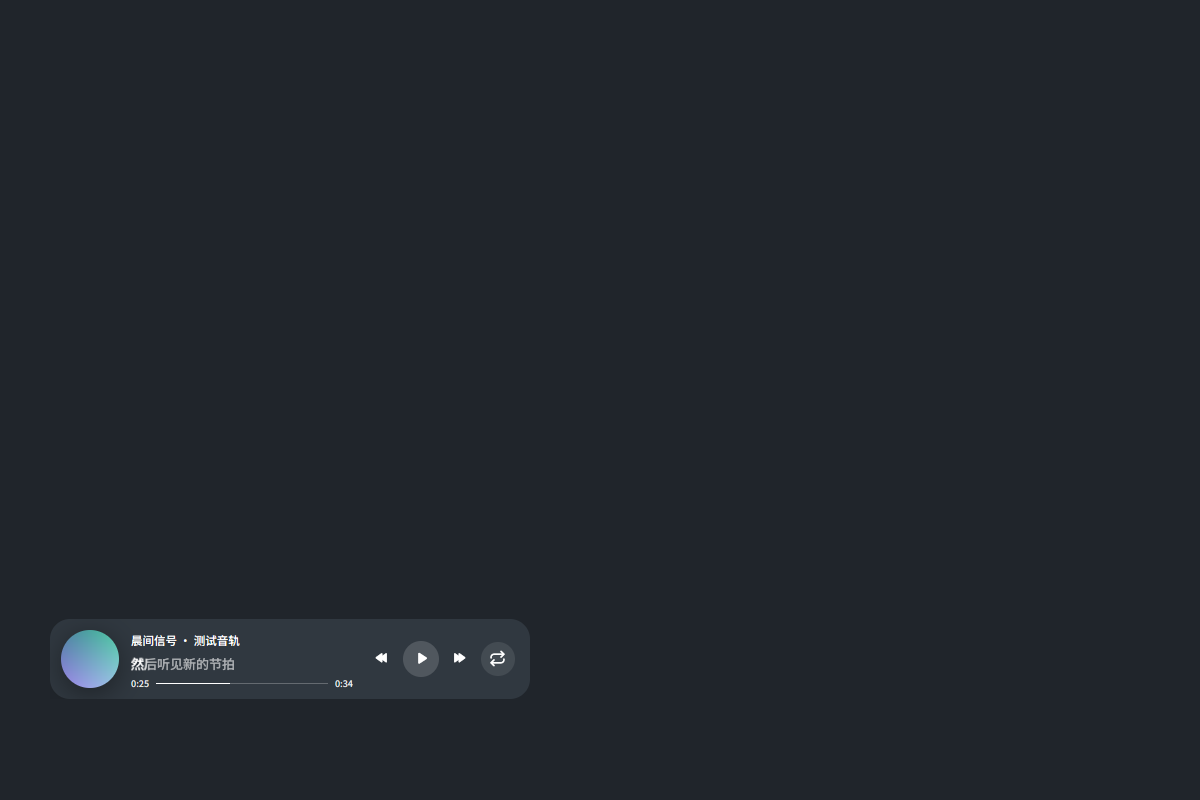
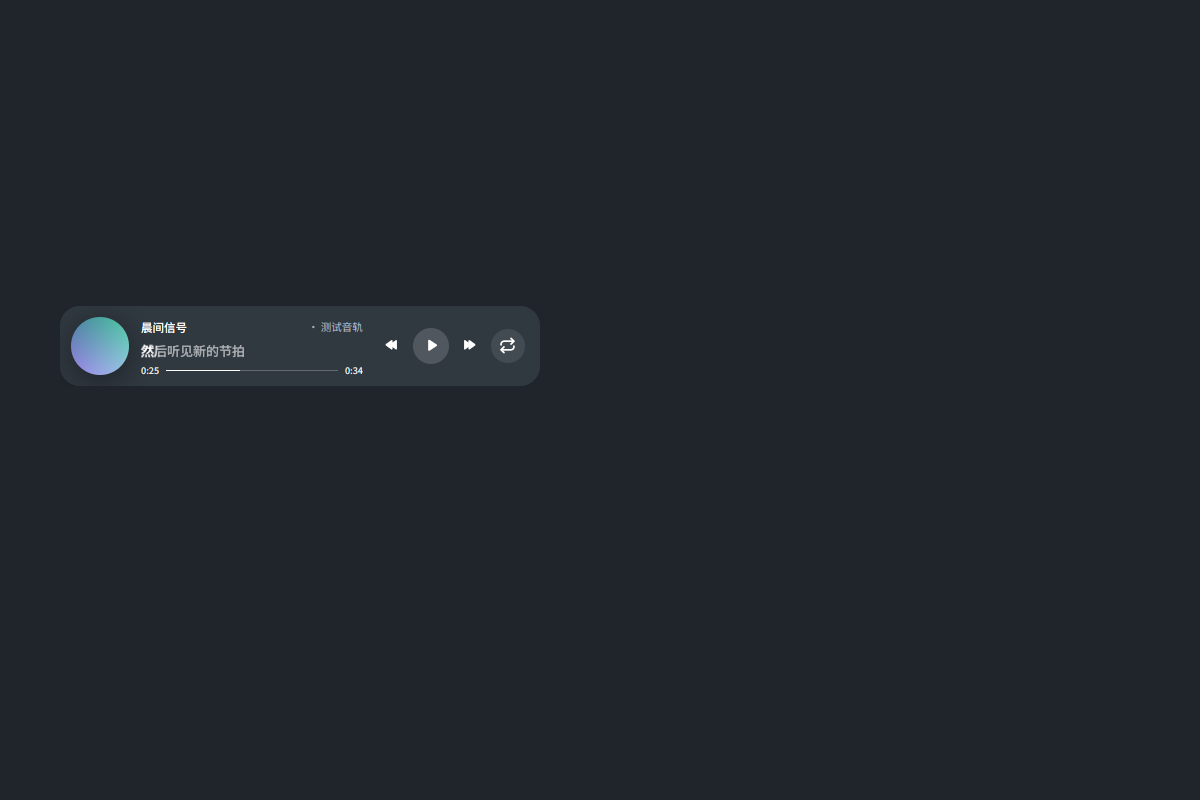
Polish mini player typography and document verified Windows preview scope

diff --git a/src/ui/components/mini_player.rs b/src/ui/components/mini_player.rs
@@ -99,10 +99,10 @@ impl Render for MiniPlayer {
         } else {
             snapshot.track.title.clone()
         };
-        let title = if can_previous && !snapshot.track.artist.is_empty() {
-            SharedString::from(format!("{title} · {}", snapshot.track.artist))
+        let artist = if can_previous && !snapshot.track.artist.is_empty() {
+            snapshot.track.artist.clone()
         } else {
-            title
+            SharedString::default()
         };
         let lyric = current_lyric_element(
             &snapshot,
@@ -154,7 +154,7 @@ impl Render for MiniPlayer {
                     .items_center()
                     .gap(px(12.))
                     .child(self.render_cover(artwork, cx))
-                    .child(self.render_meta(title, lyric, elapsed, remaining))
+                    .child(self.render_meta(title, artist, lyric, elapsed, remaining))
                     .child(self.render_transport(playing, can_previous, can_next, cx, repeat)),
             )
     }
@@ -208,6 +208,7 @@ impl MiniPlayer {
     fn render_meta(
         &self,
         title: SharedString,
+        artist: SharedString,
         lyric: AnyElement,
         elapsed: String,
         remaining: String,
@@ -225,11 +226,31 @@ impl MiniPlayer {
             .child(
                 div()
                     .w_full()
-                    .truncate()
-                    .text_size(px(11.5))
-                    .font_weight(FontWeight::MEDIUM)
+                    .min_w_0()
+                    .flex()
+                    .items_center()
+                    .gap(px(4.))
                     .window_control_area(WindowControlArea::Drag)
-                    .child(title),
+                    .child(
+                        div()
+                            .min_w_0()
+                            .flex_1()
+                            .truncate()
+                            .text_size(px(11.5))
+                            .font_weight(FontWeight::MEDIUM)
+                            .child(title),
+                    )
+                    .when(!artist.is_empty(), |row| {
+                        row.child(
+                            div()
+                                .max_w(relative(0.5))
+                                .truncate()
+                                .text_size(px(10.5))
+                                .font_weight(FontWeight::NORMAL)
+                                .text_color(rgba(0xaab4bfff))
+                                .child(format!("· {artist}")),
+                        )
+                    }),
             )
             .child(
                 div()

diff --git a/docs/DISTRIBUTION_README.md b/docs/DISTRIBUTION_README.md
@@ -1,0 +1,34 @@
+# AMS Music Player — Windows x64 preview
+
+Run GPUI-Music-Player.exe. No SDK, development tools, font installation or
+administrator rights are required. Keep all supplied DLLs beside the EXE.
+
+The complete Portable ZIP includes portable.flag. Extract it into a writable
+folder; application data is created in data/config, data/state and data/cache.
+Logs are in data/config/logs. Removing portable.flag switches to normal per-user
+storage. No music files are copied into the portable directory; re-import paths
+that no longer exist after moving to another computer.
+
+Open the library with the icon at the upper left or by clicking the empty cover.
+Hover the volume icon for its slider. Click the mini cover to expand the player.
+The top-right icons minimize, maximize/restore and close the native window.
+
+Fonts, SVG control icons and compiled shaders are inside the EXE. Font copyright
+and OFL terms are in licenses/NotoSansSC-OFL.txt. Other attribution is in
+THIRD_PARTY_NOTICES.txt. Corresponding unmodified covered source is in
+licenses/THIRD_PARTY_SOURCES.zip.
+
+The app uses an optional Windows 10 Acrylic path with an opaque slate fallback.
+To disable transparency, set [appearance] backdrop = "opaque" in config.toml and
+restart. No Windows 11 Mica is required.
+
+This unsigned preview was built on GitHub Actions Windows Server 2022. It has not
+passed Windows 10 physical-machine compatibility, audio stability, long-duration
+resource or high-DPI acceptance. Linux virtual-audio retests showed intermittent
+I/O errors. Google login, online YouTube metadata and native YouTube Music audio
+playback are not implemented.
+
+Source, complete README, screenshots and actual CI results:
+https://github.com/shannoncheu/ams
+
+Windows 10 baseline: 1903 or newer (22H2 recommended), x64. The executable imports the system ICU library; earlier Windows 10 builds are not supported by this preview. Physical-machine validation remains pending.

diff --git a/README.md b/README.md
@@ -110,3 +110,5 @@ published VCS commit or [version-specific source clarifications](licenses/CLARIF
 PixelPlayer is only a visual inspiration for the independently written sine-wave
 track. No PixelPlayer source or assets are redistributed. Original upstream
 documentation is preserved in [UPSTREAM_README.md](docs/UPSTREAM_README.md).
+
+Windows 10 baseline: 1903 or newer (22H2 recommended), x64. The executable imports the system ICU library; earlier Windows 10 builds are not supported by this preview. Physical-machine validation remains pending.

diff --git a/docs/RELEASE_NOTES.md b/docs/RELEASE_NOTES.md
@@ -12,3 +12,5 @@ They are NOT a Windows 10 physical-machine compatibility certification. Real
 Win10 playback, Acrylic/DPI/Snap/taskbar behavior, font appearance and CPU/GPU/RAM
 remain to be measured. Linux virtual audio retests had intermittent ALSA/Pulse
 I/O errors. YouTube login/online metadata/playback are not implemented.
+
+Windows 10 baseline: 1903 or newer (22H2 recommended), x64. The executable imports the system ICU library; earlier Windows 10 builds are not supported by this preview. Physical-machine validation remains pending.
